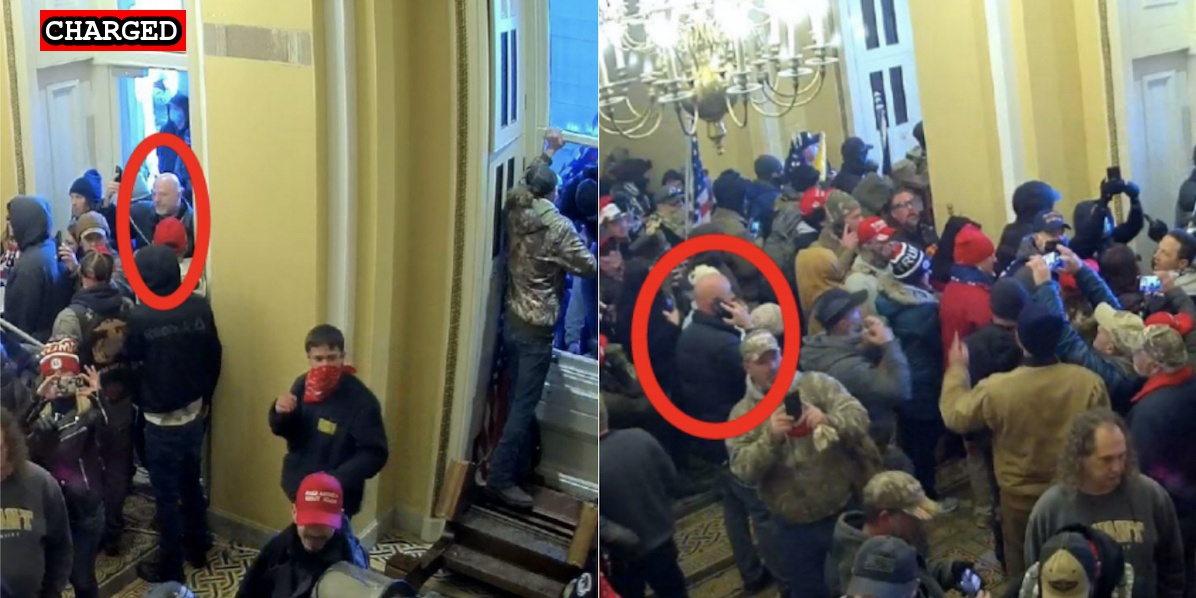
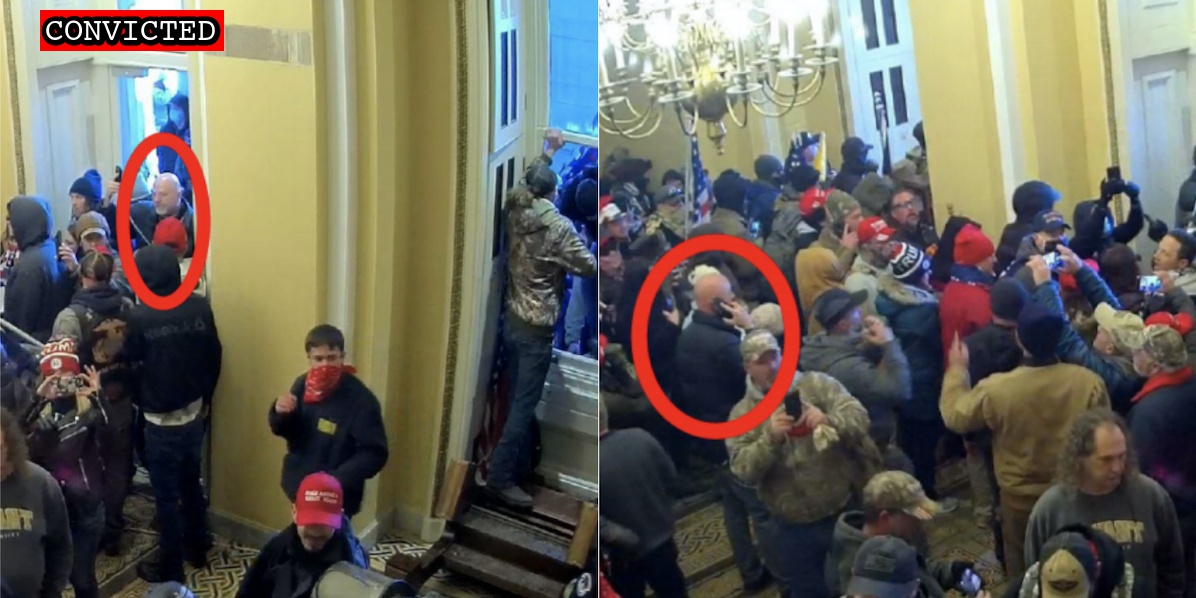
Guilty plea

Changed region(s): [[0.0309, 0.0, 0.1856, 0.0903]]

diff --git a/docs/_suspects/vic-williams.md b/docs/_suspects/vic-williams.md
@@ -4,15 +4,15 @@ lastName: Williams
 hashtag: VicWilliams
 aka: Stiemy Vic
 residence: Texas
-status: Charged
+status: Convicted
 date: 2021-05-10
 charged: 2021-05-10
 indicted:
-convicted:
+convicted: 2021-10-28
 sentenced:
 dismissed:
 deceased:
-plea_hearing:
+plea_hearing: 2021-10-28
 sentencing:
 age:
 occupation: Owner, Coffee Roasting Company
@@ -31,11 +31,16 @@ description: Click for latest case details. Suspects innocent until proven guilt
 author: seditiontrack
 layout: suspect
 published: true
-caseNumber:
+caseNumber: 1:21-cr-388
 videos:
 charges:
+- code: 18 USC § 5104(e)(2)(G)
+  title: Parading, demonstrating or picketing in a Capitol building
+  url: https://www.law.cornell.edu/uscode/text/40/5104
+  felony: false
 sentence:
 ---
 - [News Report](https://lawandcrime.com/u-s-capitol-siege/an-accused-capitol-rioter-nicknamed-stiemy-vic-gave-fbi-agents-two-bags-of-coffee-they-gave-him-four-federal-charges/)
-- [Statement of Facts](https://extremism.gwu.edu/sites/g/files/zaxdzs2191/f/Vic%20Williams%20Statement%20of%20Facts.pdf)
-- [Information](https://extremism.gwu.edu/sites/g/files/zaxdzs2191/f/Vic%20Williams%20Information.pdf)
+- [Statement of Facts](https://www.justice.gov/usao-dc/case-multi-defendant/file/1445706/download)
+- [Information](https://www.justice.gov/usao-dc/case-multi-defendant/file/1445696/download)
+- [Plea Agreement](https://www.justice.gov/usao-dc/case-multi-defendant/file/1445701/download)
